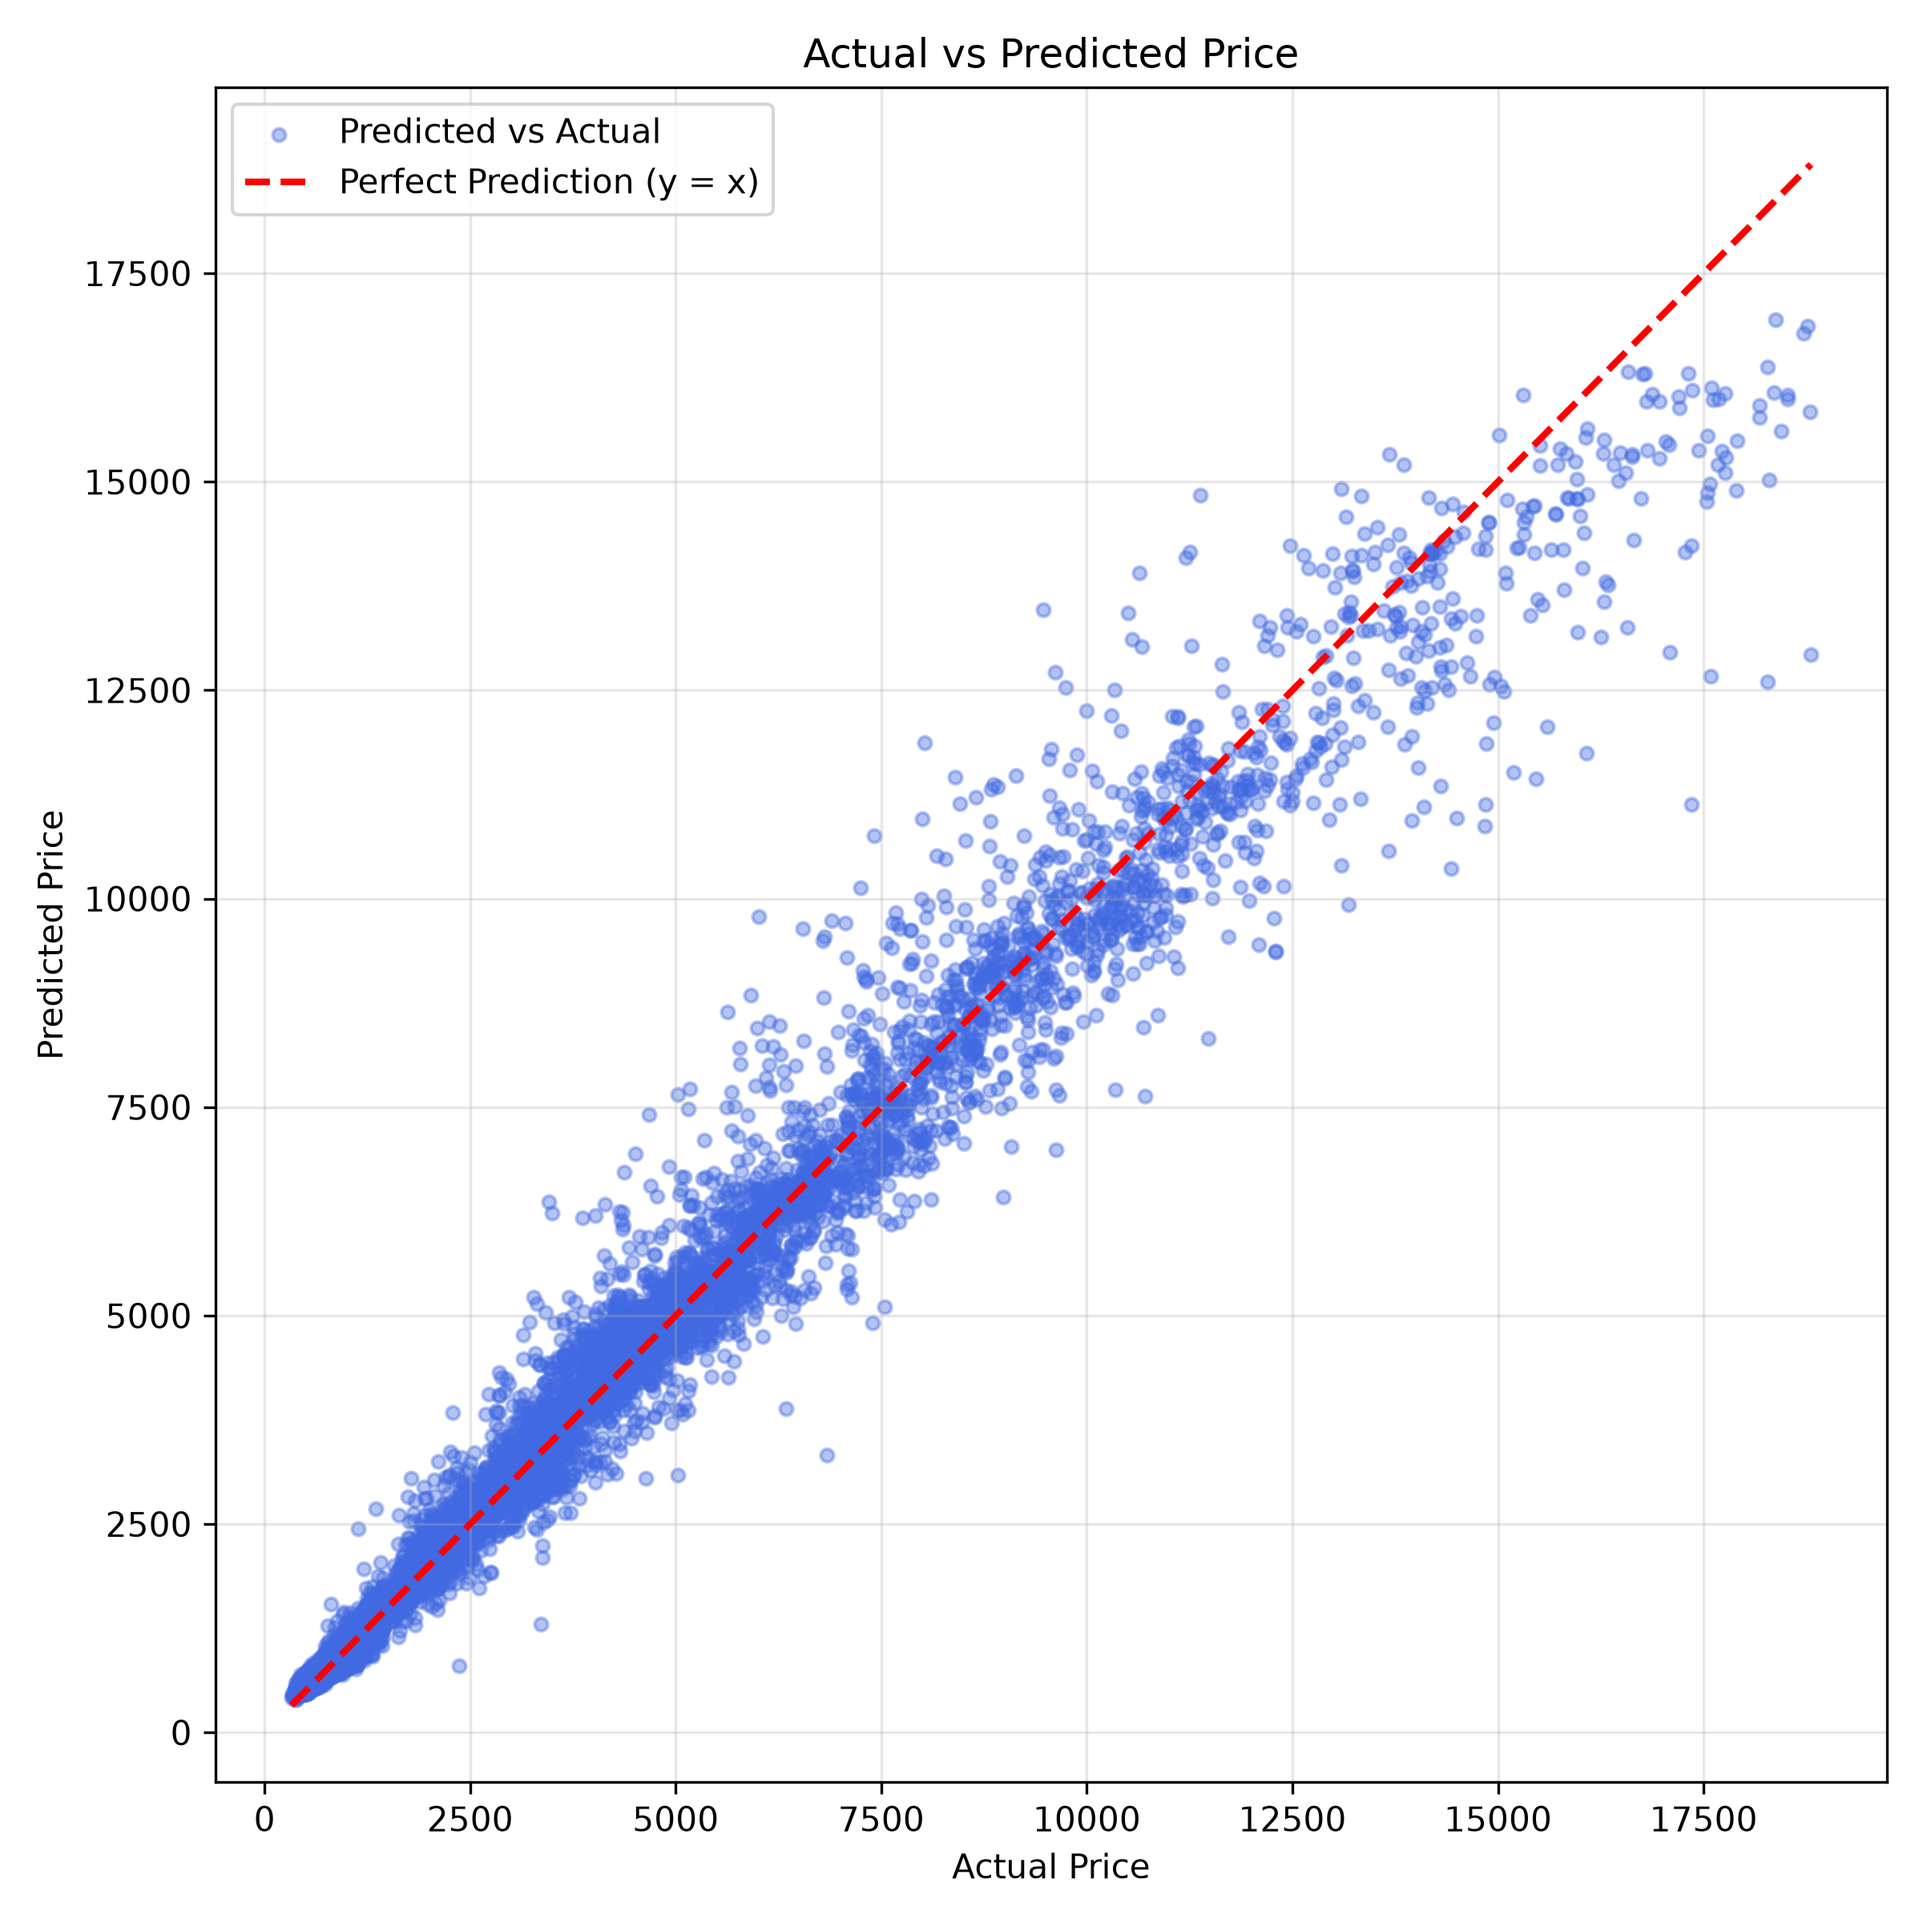
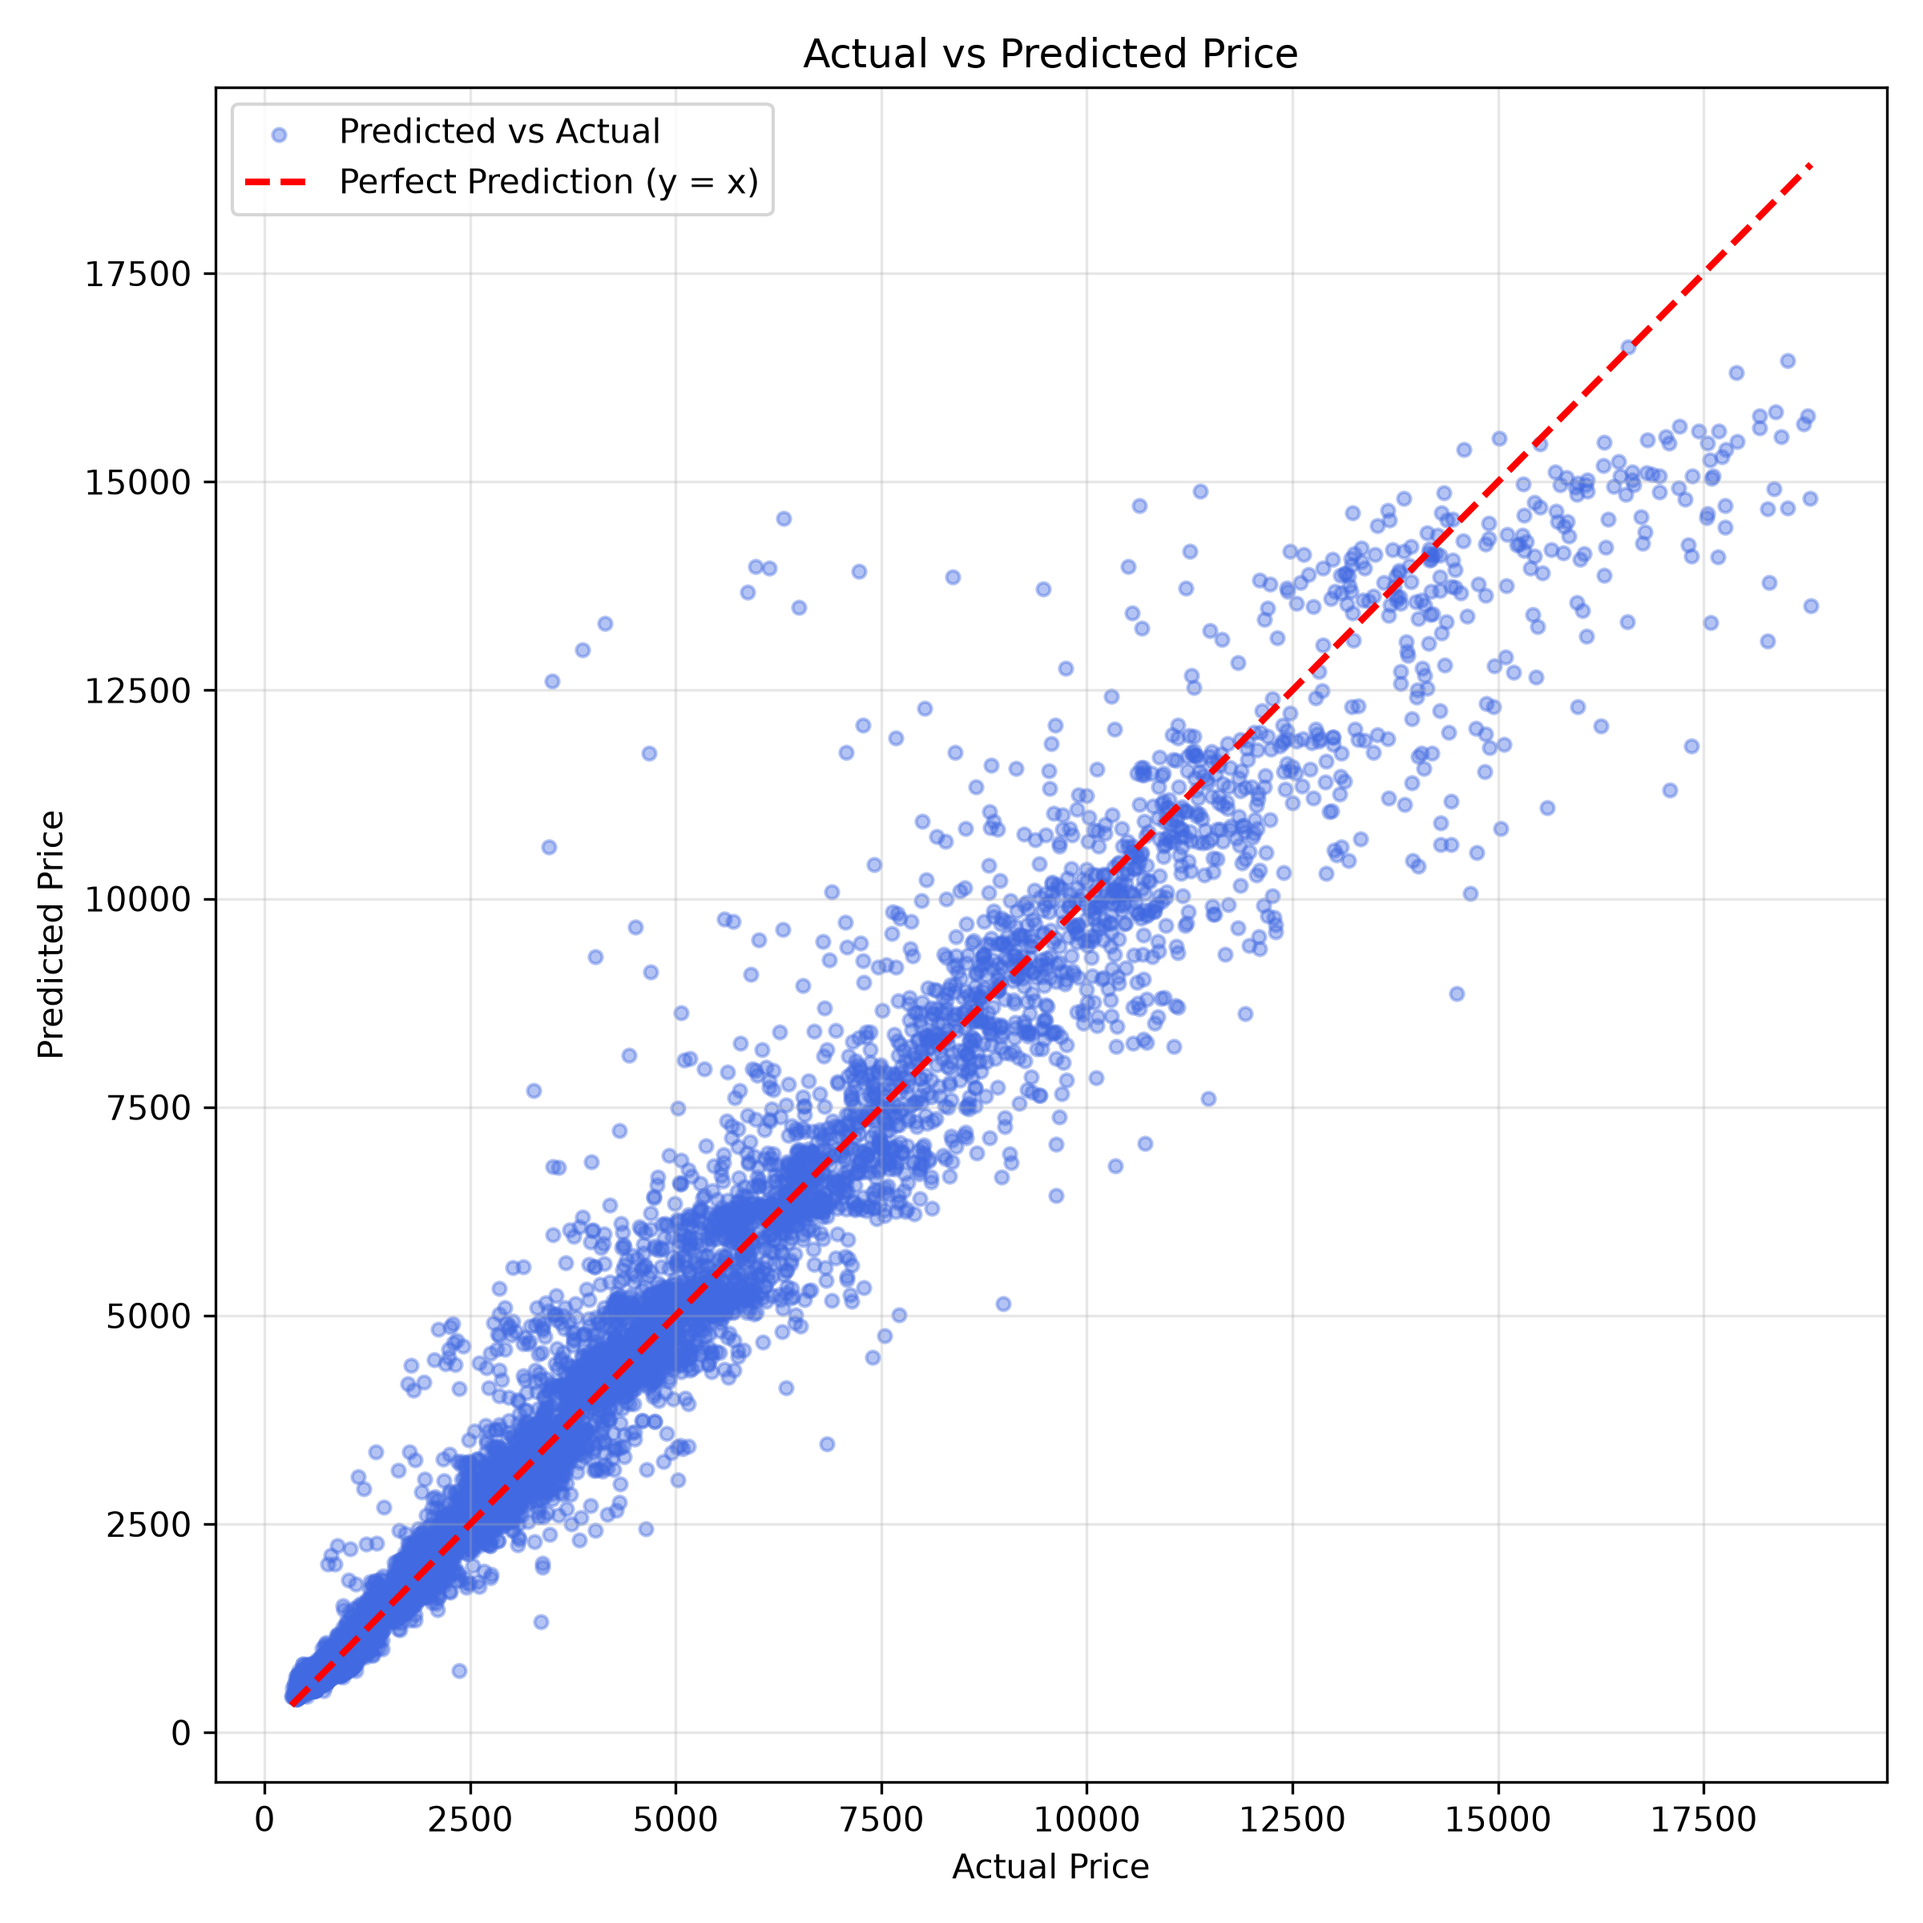
get dummies for ETR

diff --git a/Model.py b/Model.py
@@ -30,9 +30,9 @@ print(df1.describe())   '''
 df1 = df1.drop(columns='Unnamed: 0')
 #print(df1.isnull().sum())
 
-encoder = LabelEncoder()
+'''encoder = LabelEncoder()
 for col in ["cut","color","clarity"]:
-    df1[col] = encoder.fit_transform(df1[col])
+    df1[col] = encoder.fit_transform(df1[col])'''
 
 '''encoders = {}
 for col in ["cut","color","clarity"]:
@@ -78,9 +78,10 @@ for col in numeric_features:
         (df_clean[col] <= upper)
     ]
 
-X = df_clean.drop(columns=["price"])
-#X = df_clean[important_features].copy()
-y = df_clean["price"]
+df_encoded = pd.get_dummies(df_clean, columns=["cut", "color", "clarity"], drop_first=True)
+# 4. Separate features and target
+X = df_encoded.drop(columns=["price"])
+y = df_encoded["price"]
 
 X_train, X_test, y_train, y_test = train_test_split(X, y, test_size=0.2, random_state=42)
 # Standardize numerical features
